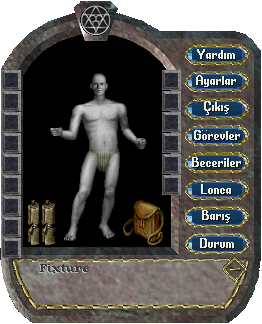
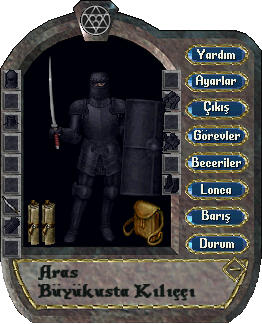
docs: align Blackrock character views and improve title contrast

diff --git a/temeller/ekran-ve-kontroller.md b/temeller/ekran-ve-kontroller.md
@@ -6,7 +6,7 @@ description: Ultima Online nasıl kontrol edilir? Ultoria'da yürüme, çift tı
 
 **Yürümek için farenin sağ düğmesini, eşya kullanmak için çift tıklamayı kullan.** İlk olarak sakin bir yerde yürüme ve durma alıştırması yap.
 
-![Ultoria'da karakterin ve yürüyeceğin başlangıç çevresinin yakın görünümü](../.gitbook/assets/tr/baslangic-cevresi.png)
+![Ultoria'da Blackrock setli Aras'ın ve Britain bankası çevresinin yakın görünümü](../.gitbook/assets/tr/baslangic-cevresi.png)
 
 *Oyun alanı dünyayı gösterir. Pencere açmak için üst menüde Karakter, Envanter ve Günlük düğmelerini kullanırsın.*
 
@@ -23,7 +23,7 @@ Sağ düğme birçok oyun penceresini de kapatır. Yürümek isterken bir pencer
 
 ## Sık kullanacağın pencereler
 
-![ClassicUO karakter panelindeki Türkçe düğmelerin saydam arka planlı örneği](../.gitbook/assets/tr/karakter-transparan.png)
+![Aras, Büyükusta Kılıççı; aynı Blackrock set, kalkan ve katanayla Türkçe karakter penceresi](../.gitbook/assets/tr/karakter-transparan.png)
 
 *Karakter penceresinin örnek görünümü. Çerçevenin içi opak siyah, yalnızca dışı saydamdır. Beceriler, Ayarlar, Durum ve Barış düğmelerini burada bulursun.*
 

diff --git a/baslangic/ilk-10-dakika.md b/baslangic/ilk-10-dakika.md
@@ -10,7 +10,7 @@ description: Ultima Online'a ilk kez başlayanlar için Ultoria'da ilk 10 dakika
 
 Oyun dünyasına girdikten sonra karakterini bul. Binalara, yollara ve yakındaki kişilere bak. Bilgisayarın yönettiği kişilere **NPC** denir. Bankacı ve satıcılar buna örnektir.
 
-![Ultoria oyun ekranı ve başlangıç çevresi](../.gitbook/assets/tr/baslangic-cevresi.png)
+![Britain bankasının önünde Blackrock zırhlı örnek karakter ve şehir görünümü](../.gitbook/assets/tr/baslangic-cevresi.png)
 
 *Yürümeye başlamadan önce bulunduğun yeri tanı. Dönüş yolunu hatırlamana yardımcı olacak bir bina seç.*
 

diff --git a/README.md b/README.md
@@ -8,7 +8,7 @@ description: Ultoria Oyun Rehberi. 58 becerinin kullanımı, 8 büyü kitabı, e
 
 Hiç oynamadıysan [ilk 10 dakika](baslangic/ilk-10-dakika.md) sayfasıyla başla. Her şeyi bir günde öğrenmen gerekmez. Önce yürümeyi, çantanı açmayı ve bankanı kullanmayı dene.
 
-![Ultoria'da yeni bir karakterin oyun dünyası](.gitbook/assets/tr/baslangic-cevresi.png)
+![Britain'da Blackrock zırh, kalkan ve katana kuşanmış örnek karakter Aras](.gitbook/assets/tr/baslangic-cevresi.png)
 
 *Ekranın ortasındaki karakter sensin. İlk hedefin çevreni tanımak ve eşyalarını bulmak.*
 
